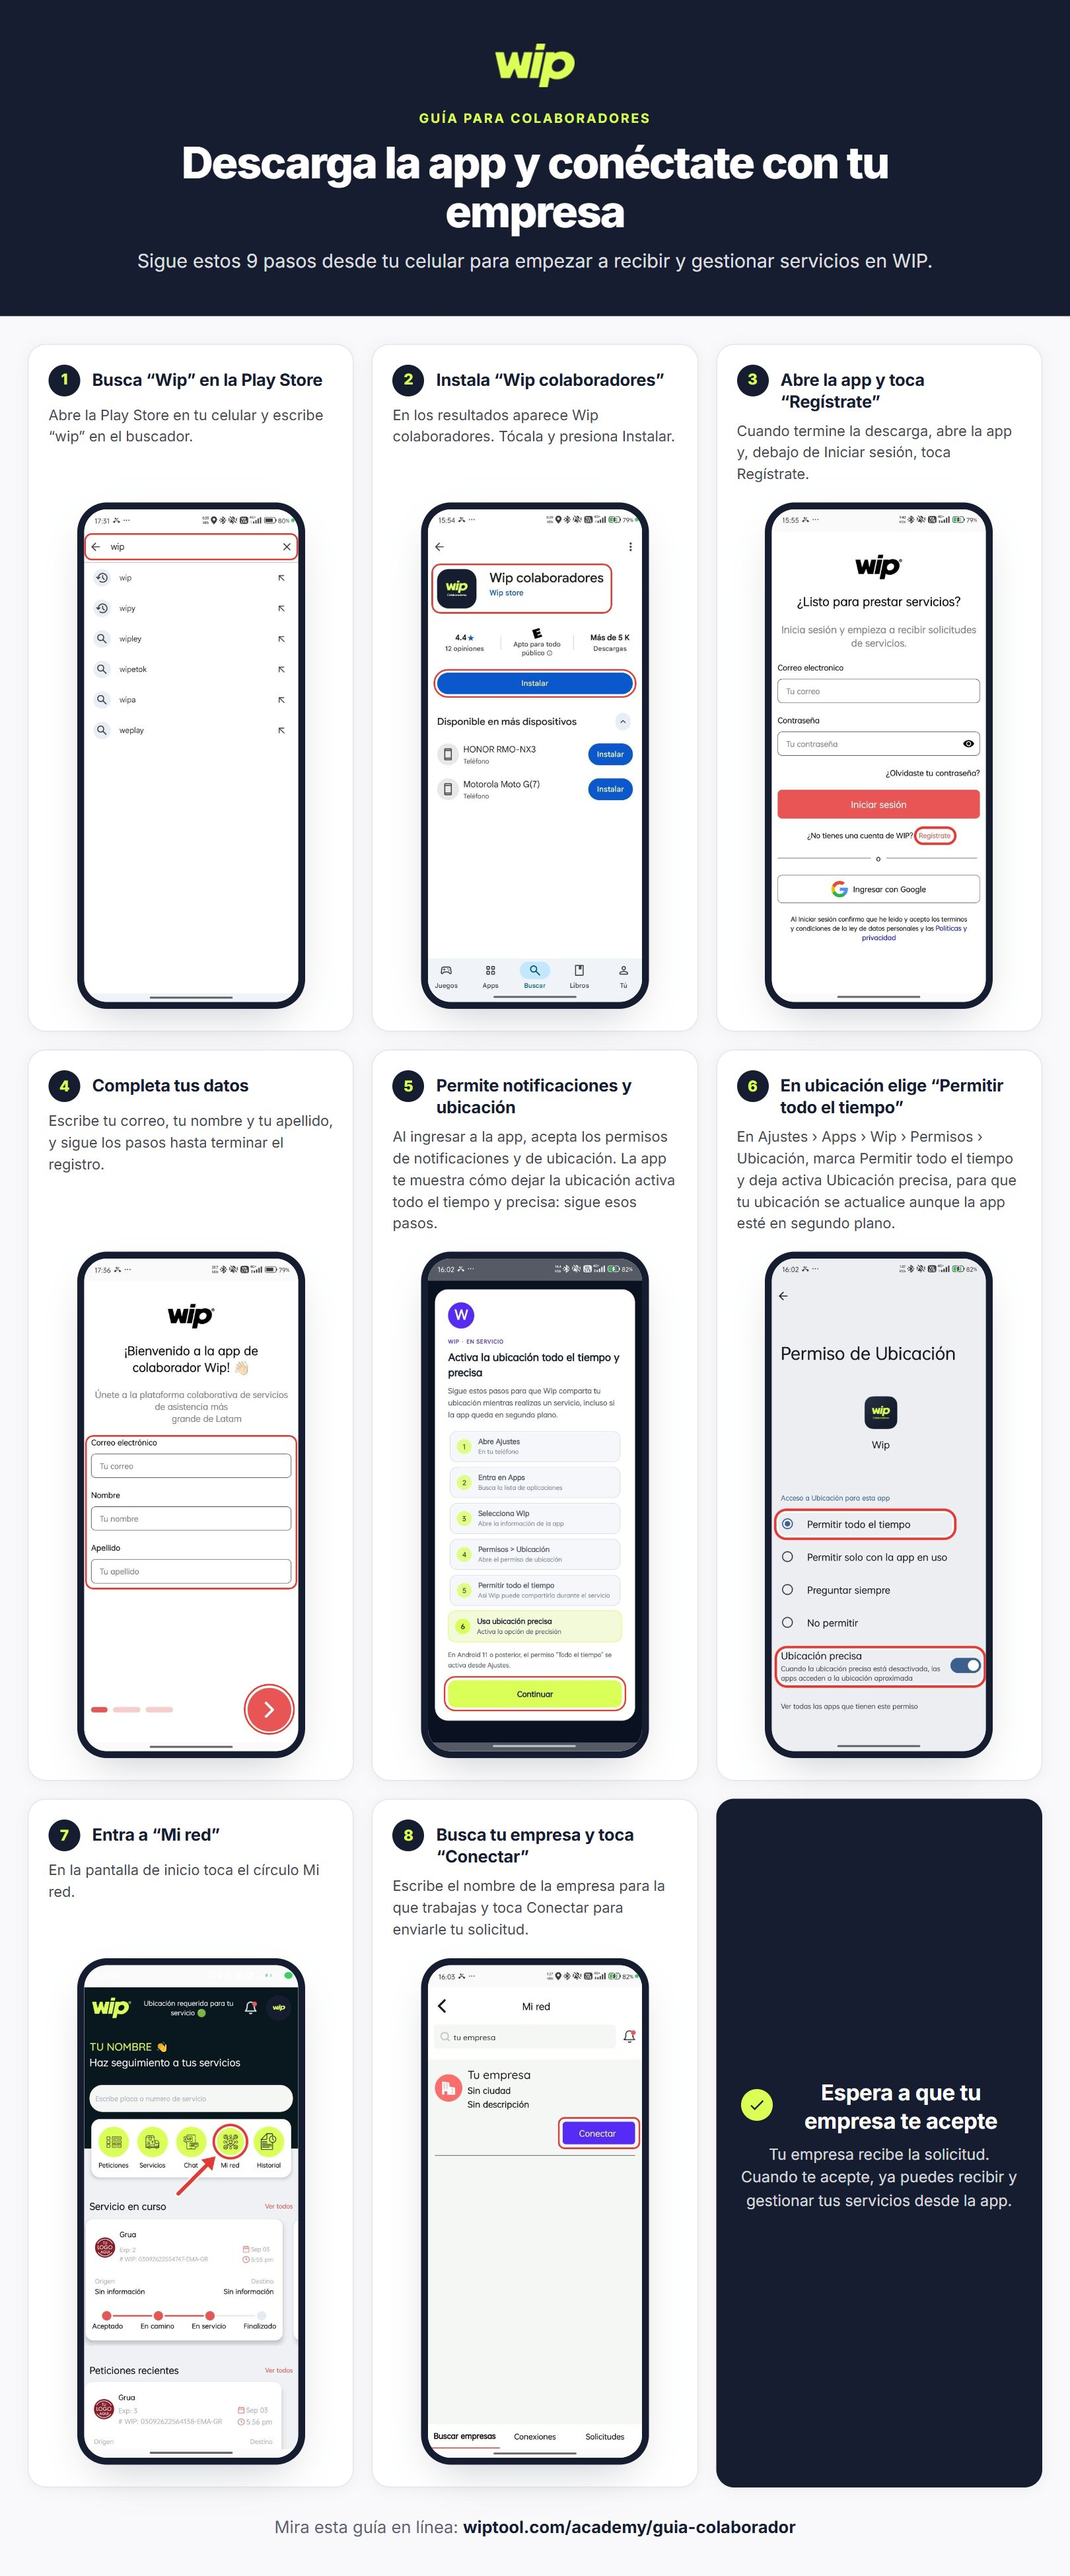
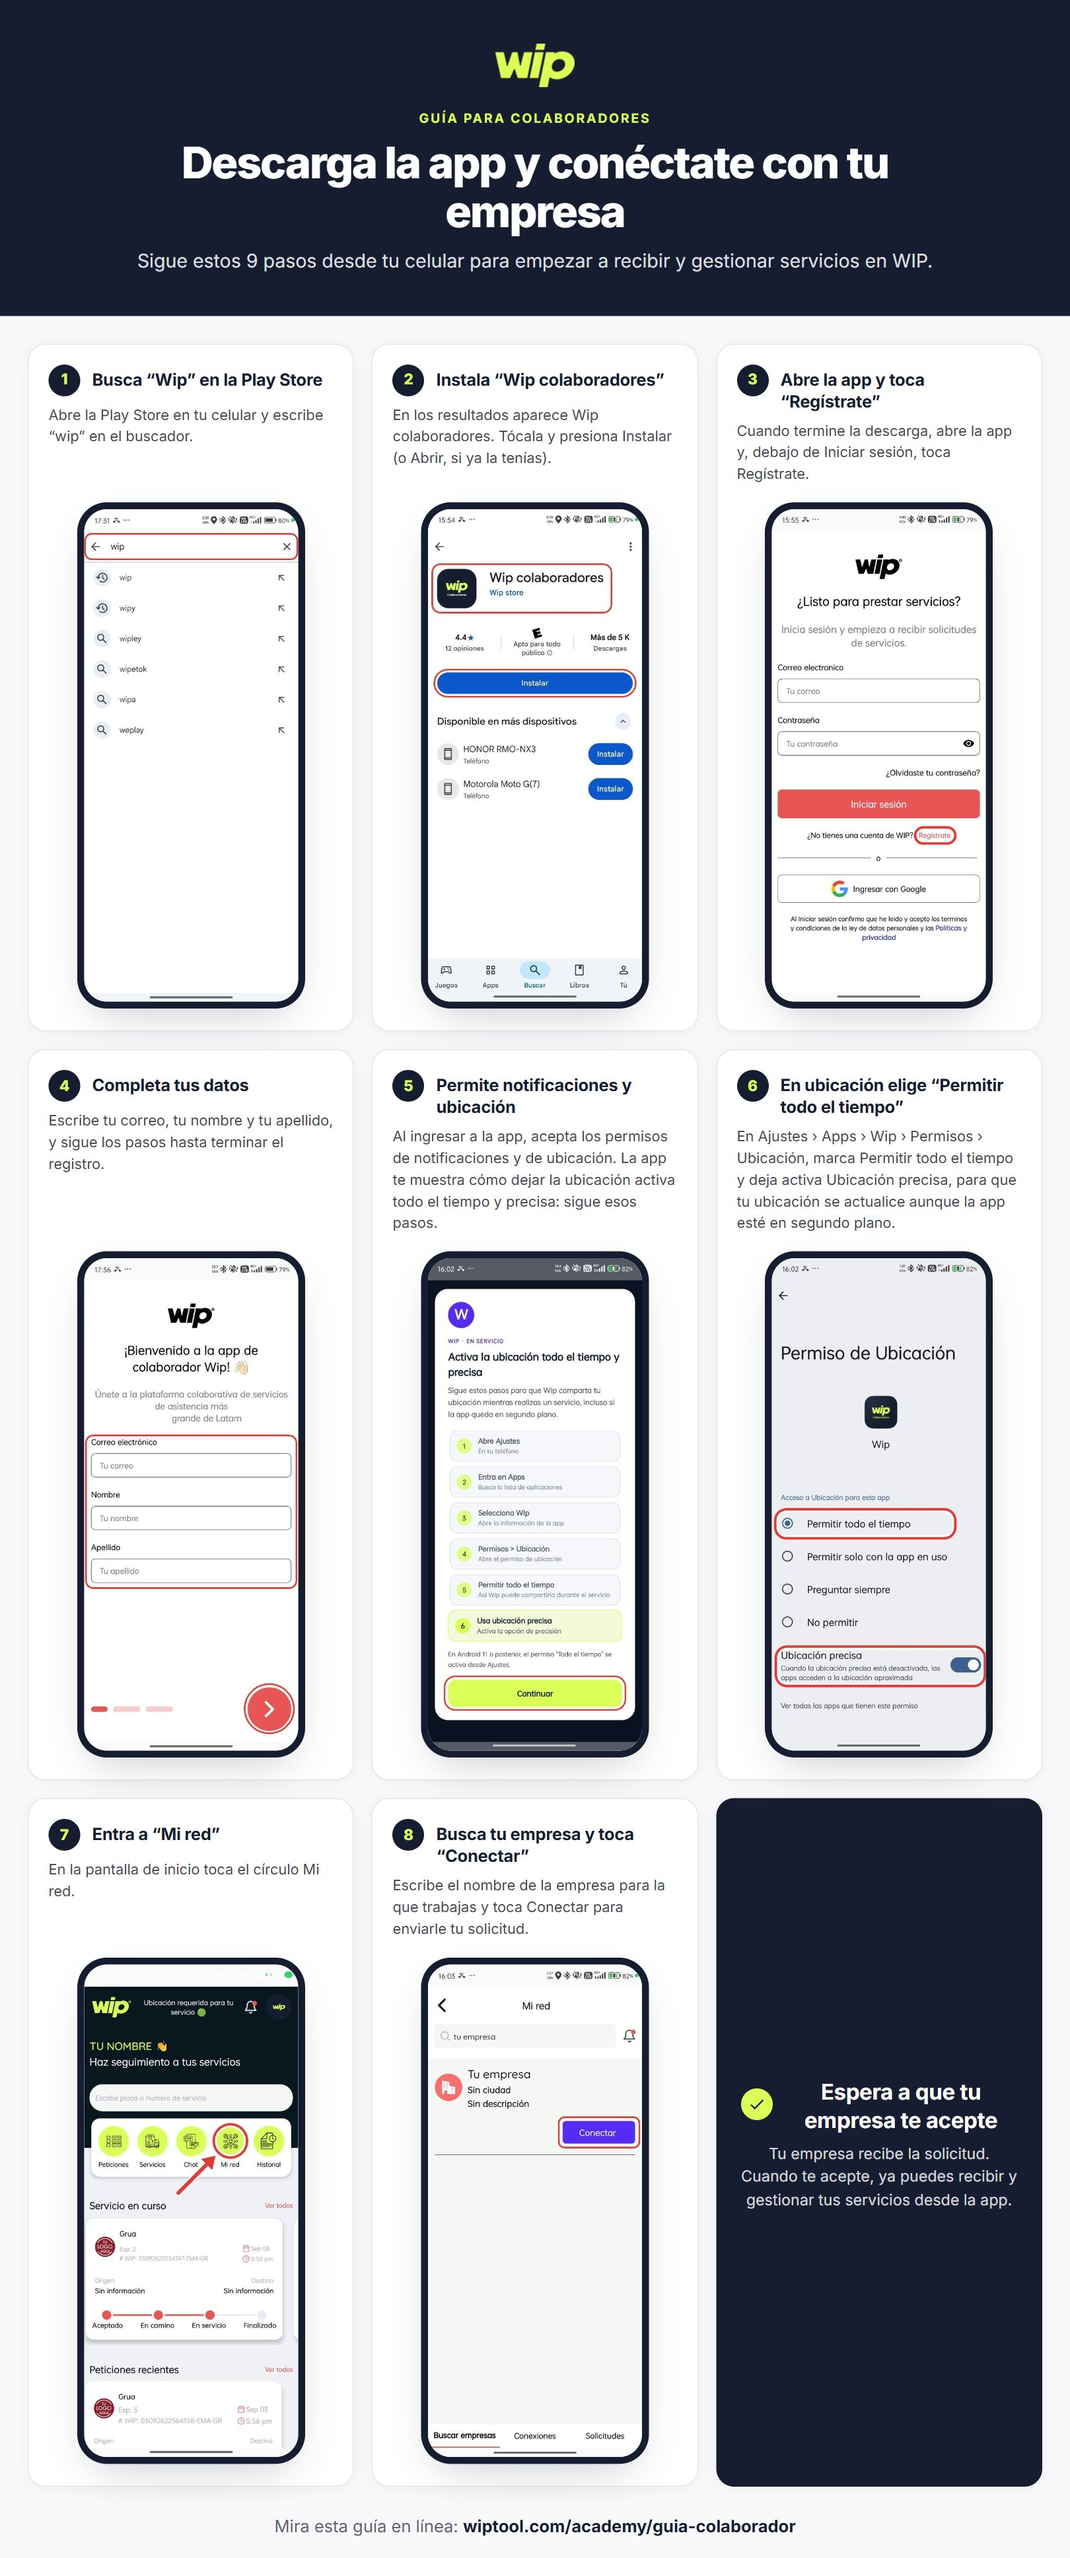
Academy: paso 2 de la guía de colaboradores vuelve a "presiona Instalar (o Abrir, si ya la tenías)"; la captura sigue con el botón Instalar

diff --git a/academy/guia-colaborador/index.html b/academy/guia-colaborador/index.html
@@ -254,7 +254,7 @@ h1{font-size:clamp(28px,4.6vw,48px);font-weight:800;letter-spacing:-0.03em;line-
         <h1>Descarga la app y conéctate con tu empresa</h1>
         <p>Sigue estos 9 pasos desde tu celular para empezar a recibir y gestionar servicios en WIP.</p>
         <div class="guide__actions">
-          <a class="btn-guide" href="/img/academy/guia-colaborador-wip.jpg?v=4" download="guia-wip-colaboradores.jpg" data-ev="academy_guia_descarga"><svg viewBox="0 0 24 24" width="18" height="18" aria-hidden="true"><path fill="currentColor" d="M5 20h14v-2H5Zm7-3 6-6-1.4-1.4-3.6 3.6V4h-2v9.2L7.4 9.6 6 11Z"/></svg>Descargar guía en imagen</a>
+          <a class="btn-guide" href="/img/academy/guia-colaborador-wip.jpg?v=5" download="guia-wip-colaboradores.jpg" data-ev="academy_guia_descarga"><svg viewBox="0 0 24 24" width="18" height="18" aria-hidden="true"><path fill="currentColor" d="M5 20h14v-2H5Zm7-3 6-6-1.4-1.4-3.6 3.6V4h-2v9.2L7.4 9.6 6 11Z"/></svg>Descargar guía en imagen</a>
           <button class="btn-guide btn-guide--ghost" type="button" data-share>Compartir enlace</button>
         </div>
       </div>
@@ -272,7 +272,7 @@ h1{font-size:clamp(28px,4.6vw,48px);font-weight:800;letter-spacing:-0.03em;line-
               <span class="step__n">2</span>
               <h3>Instala “Wip colaboradores”</h3>
             </div>
-            <p>En los resultados aparece Wip colaboradores. Tócala y presiona Instalar.</p>
+            <p>En los resultados aparece Wip colaboradores. Tócala y presiona Instalar (o Abrir, si ya la tenías).</p>
             <div class="phone"><img src="/img/academy/app/2-wip-colaboradores.jpg?v=3" width="540" height="1200" alt="Paso 2: Instala “Wip colaboradores”" loading="lazy" decoding="async"></div>
           </li>
           <li class="step">
@@ -332,7 +332,7 @@ h1{font-size:clamp(28px,4.6vw,48px);font-weight:800;letter-spacing:-0.03em;line-
           </li>
       </ol>
       <div class="guide__foot">
-        <a class="btn-guide" href="/img/academy/guia-colaborador-wip.jpg?v=4" download="guia-wip-colaboradores.jpg" data-ev="academy_guia_descarga"><svg viewBox="0 0 24 24" width="18" height="18" aria-hidden="true"><path fill="currentColor" d="M5 20h14v-2H5Zm7-3 6-6-1.4-1.4-3.6 3.6V4h-2v9.2L7.4 9.6 6 11Z"/></svg>Descargar guía en imagen</a>
+        <a class="btn-guide" href="/img/academy/guia-colaborador-wip.jpg?v=5" download="guia-wip-colaboradores.jpg" data-ev="academy_guia_descarga"><svg viewBox="0 0 24 24" width="18" height="18" aria-hidden="true"><path fill="currentColor" d="M5 20h14v-2H5Zm7-3 6-6-1.4-1.4-3.6 3.6V4h-2v9.2L7.4 9.6 6 11Z"/></svg>Descargar guía en imagen</a>
         <a class="guide__back" href="/academy#colaborador">Ver los cursos en video para colaboradores →</a>
       </div>
     </div>
